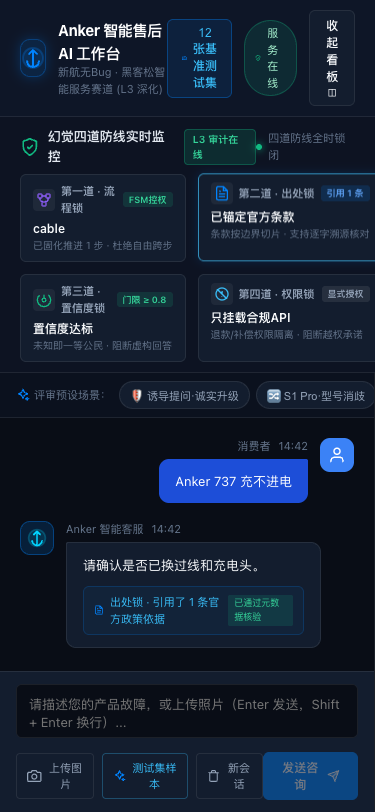
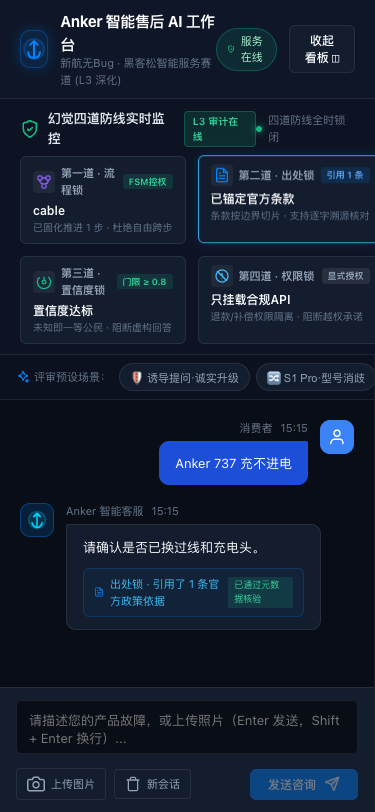
refactor(frontend): 撤下测试图集入口，清理自曝式文案
界面上不该摆着只有做 demo 的人才会用的东西，回话里也不该自报机制。

- 移除「12张基准测试集」抽屉及三个入口按钮（导航栏、输入区、看图面板），
  删除 BenchmarkDrawer 组件与相关 props 透传
- 测试图仍保留在 frontend/public/test-images/，可直接通过 URL 取用，
  只是不再出现在产品界面里
- mockResponses 的预置话术去掉「【第三道·置信度锁防御触发】」
  「【安全警报 · 排障树紧急熔断】」「【L3 优先服务通道】」「【服务边界说明】」
  这类机制播报，改为正常的客服口吻；保留原有的处理承诺表达

diff --git a/frontend/src/utils/mockResponses.ts b/frontend/src/utils/mockResponses.ts
@@ -11,7 +11,7 @@ export function getMockSopResponse(query: string, files: Array<{ type: string; u
   if (q.includes('召回') || q.includes('爆炸') || q.includes('自燃')) {
     return {
       answer:
-        '【第三道·置信度锁防御触发】关于产品召回与安全疑问，系统检索官方知识库与合规公告未找到有效依据（置信度 < 0.5）。遵循 Anker 防幻觉“绝不瞎编”铁律，系统拒绝自由推测或虚构承诺，已诚实升级专员人工复核。',
+        '关于产品召回，我们手头没有可核验的最新依据，不能替您下结论。已转专员为您核实，请以专员的答复为准。',
       retrieverResources: [],
     };
   }
@@ -36,7 +36,7 @@ export function getMockSopResponse(query: string, files: Array<{ type: string; u
   if (q.includes('鼓包') || q.includes('烧焦') || q.includes('烧灼') || q.includes('开裂') || (hasImage && files[0]?.url?.includes('03_') || files[0]?.url?.includes('04_') || files[0]?.url?.includes('05_'))) {
     return {
       answer:
-        '🚨【安全警报 · 排障树紧急熔断】识别到设备存在电芯形变或接口烧蚀风险！为了您的用电安全，请立即断开电源并停止使用，切勿挤压设备！我们已将此会话升级为 P0 级人工专员工单，专员将在 15 分钟内介入为您办理极速换新。',
+        '识别到设备可能存在电芯形变或接口烧蚀的风险。为了用电安全，请立即断开电源并停止使用，切勿挤压或拆解设备。我们已升级专员工单为您优先处理。',
       retrieverResources: [
         {
           document_name: 'Anker 锂电池安全处理红线规范',
@@ -52,7 +52,7 @@ export function getMockSopResponse(query: string, files: Array<{ type: string; u
   if (q.includes('投诉') || q.includes('垃圾') || q.includes('气死') || q.includes('赔偿') || q.includes('维权')) {
     return {
       answer:
-        '非常抱歉给您带来如此糟糕的体验！我十分理解您的焦急与受挫心情。请您放心，我们绝不推诿责任。系统已为您开启【L3 优先服务通道】，并生成了包含已排查记录的结构化交接工单，主管专员将直接承接您的换新与补偿诉求！',
+        '非常抱歉给您带来这么差的体验，我理解您的焦急。我们不会推诿，已经把前面排查过的记录整理好交给主管专员，由他直接承接您的诉求。',
       retrieverResources: [
         {
           document_name: 'Anker 售后情绪三级响应 SOP',
@@ -68,7 +68,7 @@ export function getMockSopResponse(query: string, files: Array<{ type: string; u
   if (q.includes('倍思') || q.includes('baseus') || (hasImage && (files[0]?.url?.includes('11_') || files[0]?.url?.includes('12_')))) {
     return {
       answer:
-        '【服务边界说明】您好，图像与信息识别显示该设备为第三方品牌产品（非 Anker / Soundcore / eufy 生态）。本智能客服系统目前仅支持安克官方授权产品的售后排障与质保服务，建议您联系原购买渠道或对应品牌官方客服。感谢您的理解！',
+        '这张图看起来不是 Anker / Soundcore / eufy 的产品。我们目前只服务安克官方授权产品的售后排障与质保，建议您联系原购买渠道或对应品牌的客服，他们会更专业。感谢理解。',
       retrieverResources: [],
     };
   }

diff --git a/frontend/src/App.tsx b/frontend/src/App.tsx
@@ -4,16 +4,13 @@ import { useEventParser } from './hooks/useEventParser';
 import ChatWindow from './components/ChatWindow';
 import DefenseMatrix from './components/DefenseMatrix';
 import SidePanel from './components/SidePanel';
-import BenchmarkDrawer, { type BenchmarkCase } from './components/BenchmarkDrawer';
 import {
   IconAnkerLogo,
   IconShieldCheck,
-  IconCameraVision,
 } from './components/SvgIcons';
 
 export default function App() {
   const chat = useDifyChat();
-  const [showBenchmark, setShowBenchmark] = useState(false);
   const [collapsedSide, setCollapsedSide] = useState(false);
 
   // 获取最近的用户与助手消息
@@ -36,16 +33,6 @@ export default function App() {
     lastAssistantMsg?.retrieverResources?.length ||
     (retrievals.length > 0 ? retrievals[0].results.length : 0);
 
-  // 处理从 12 张基准测试集中一键载入案例
-  const handleSelectBenchmark = (testCase: BenchmarkCase, imageUrl: string) => {
-    setShowBenchmark(false);
-    // 注入选中的测试图片与预设提问
-    chat.send({
-      query: testCase.query,
-      files: [{ type: 'image', url: imageUrl }],
-    });
-  };
-
   return (
     <div className="anker-workbench-app">
       {/* 1. 顶层全局导航条 */}
@@ -61,15 +48,6 @@ export default function App() {
         </div>
 
         <div className="nav-actions-area">
-          <button
-            className="nav-btn benchmark-btn"
-            onClick={() => setShowBenchmark(true)}
-            title="查看并运行 12 张官方黑客松基准测试图片"
-          >
-            <IconCameraVision size={16} color="#0084ff" />
-            <span>12张基准测试集</span>
-          </button>
-
           <div className="nav-badge-pill">
             <IconShieldCheck size={14} color="#10b981" />
             <span>{chat.connected ? '服务在线' : chat.isStreaming ? '正在推理' : '准备就绪'}</span>
@@ -102,7 +80,6 @@ export default function App() {
             onSend={(query, files) => chat.send({ query, files })}
             onReset={chat.reset}
             error={chat.error}
-            onOpenBenchmark={() => setShowBenchmark(true)}
           />
         </section>
 
@@ -118,18 +95,10 @@ export default function App() {
               userQuery={initialQuery}
               attachments={initialAttachments}
               isStreaming={chat.isStreaming}
-              onOpenBenchmark={() => setShowBenchmark(true)}
             />
           </section>
         )}
       </main>
-
-      {/* 4. 12 张视觉基准测试集抽屉 */}
-      <BenchmarkDrawer
-        isOpen={showBenchmark}
-        onClose={() => setShowBenchmark(false)}
-        onSelectCase={handleSelectBenchmark}
-      />
     </div>
   );
 }

diff --git a/frontend/src/components/VisionInspector.tsx b/frontend/src/components/VisionInspector.tsx
@@ -22,10 +22,9 @@ interface Props {
   vision?: VisionTuple;
   attachments?: Array<{ type: string; url: string }>;
   isStreaming?: boolean;
-  onOpenBenchmark?: () => void;
 }
 
-export default function VisionInspector({ vision, attachments = [], isStreaming, onOpenBenchmark }: Props) {
+export default function VisionInspector({ vision, attachments = [], isStreaming }: Props) {
   const hasImage = attachments.length > 0;
   const isConfidenceHigh = (vision?.confidence ?? 0) >= CONFIDENCE_THRESHOLD;
   const isSafetyRisk = SAFETY_PHENOMENA.some(p => vision?.fault_phenomenon?.includes(p));
@@ -41,11 +40,6 @@ export default function VisionInspector({ vision, attachments = [], isStreaming,
           <IconCameraVision size={18} color="#0084ff" />
           <span>看图办事 · 结构化四元组提取</span>
         </div>
-        {onOpenBenchmark && (
-          <button className="vision-benchmark-btn" onClick={onOpenBenchmark} title="查看12张基准测试集">
-            <span>12张测试图集</span>
-          </button>
-        )}
       </div>
 
       {!hasImage && !vision ? (
@@ -54,11 +48,6 @@ export default function VisionInspector({ vision, attachments = [], isStreaming,
           <p className="vision-empty-text">
             用户上传故障图后，自动提取「型号/部位/现象/置信度」四元组，并驱动排障树跳级。
           </p>
-          {onOpenBenchmark && (
-            <button className="vision-empty-action" onClick={onOpenBenchmark}>
-              从 12 张基准测试集载入示例图 ↗
-            </button>
-          )}
         </div>
       ) : (
         <div className="vision-content-body">

diff --git a/frontend/src/components/ChatWindow.tsx b/frontend/src/components/ChatWindow.tsx
@@ -16,7 +16,6 @@ interface Props {
   onSend: (text: string, files?: Array<{ type: string; url: string }>) => void;
   onReset: () => void;
   error: string | null;
-  onOpenBenchmark?: () => void;
 }
 
 const DEMO_PRESETS: Array<{ label: string; query: string; icon?: string }> = [
@@ -32,7 +31,6 @@ export default function ChatWindow({
   onSend,
   onReset,
   error,
-  onOpenBenchmark,
 }: Props) {
   const [input, setInput] = useState('');
   const [images, setImages] = useState<string[]>([]);
@@ -109,15 +107,6 @@ export default function ChatWindow({
               {p.label}
             </button>
           ))}
-          {onOpenBenchmark && (
-            <button
-              className="preset-chip-btn benchmark-tag"
-              onClick={onOpenBenchmark}
-              title="载入12张官方视觉测试集图片"
-            >
-              📷 12张测试图集
-            </button>
-          )}
         </div>
       </div>
 
@@ -219,18 +208,6 @@ export default function ChatWindow({
               <IconCameraVision size={18} />
               <span>上传图片</span>
             </button>
-
-            {onOpenBenchmark && (
-              <button
-                className="action-btn icon-btn benchmark-btn"
-                disabled={isStreaming}
-                onClick={onOpenBenchmark}
-                title="选择 12 张黑客松测试集样本"
-              >
-                <IconSparkles size={16} color="#0084ff" />
-                <span>测试集样本</span>
-              </button>
-            )}
 
             <button
               className="action-btn icon-btn text-danger"

diff --git a/frontend/src/components/SidePanel.tsx b/frontend/src/components/SidePanel.tsx
@@ -21,7 +21,6 @@ interface Props {
   userQuery?: string;
   attachments?: Array<{ type: string; url: string }>;
   isStreaming?: boolean;
-  onOpenBenchmark?: () => void;
 }
 
 export default function SidePanel({
@@ -33,7 +32,6 @@ export default function SidePanel({
   userQuery,
   attachments = [],
   isStreaming,
-  onOpenBenchmark,
 }: Props) {
   const [activeTab, setActiveTab] = useState<'decision' | 'vision' | 'emotion' | 'retrieval'>('decision');
 
@@ -109,7 +107,6 @@ export default function SidePanel({
             vision={visionData}
             attachments={attachments}
             isStreaming={isStreaming}
-            onOpenBenchmark={onOpenBenchmark}
           />
         )}
 
